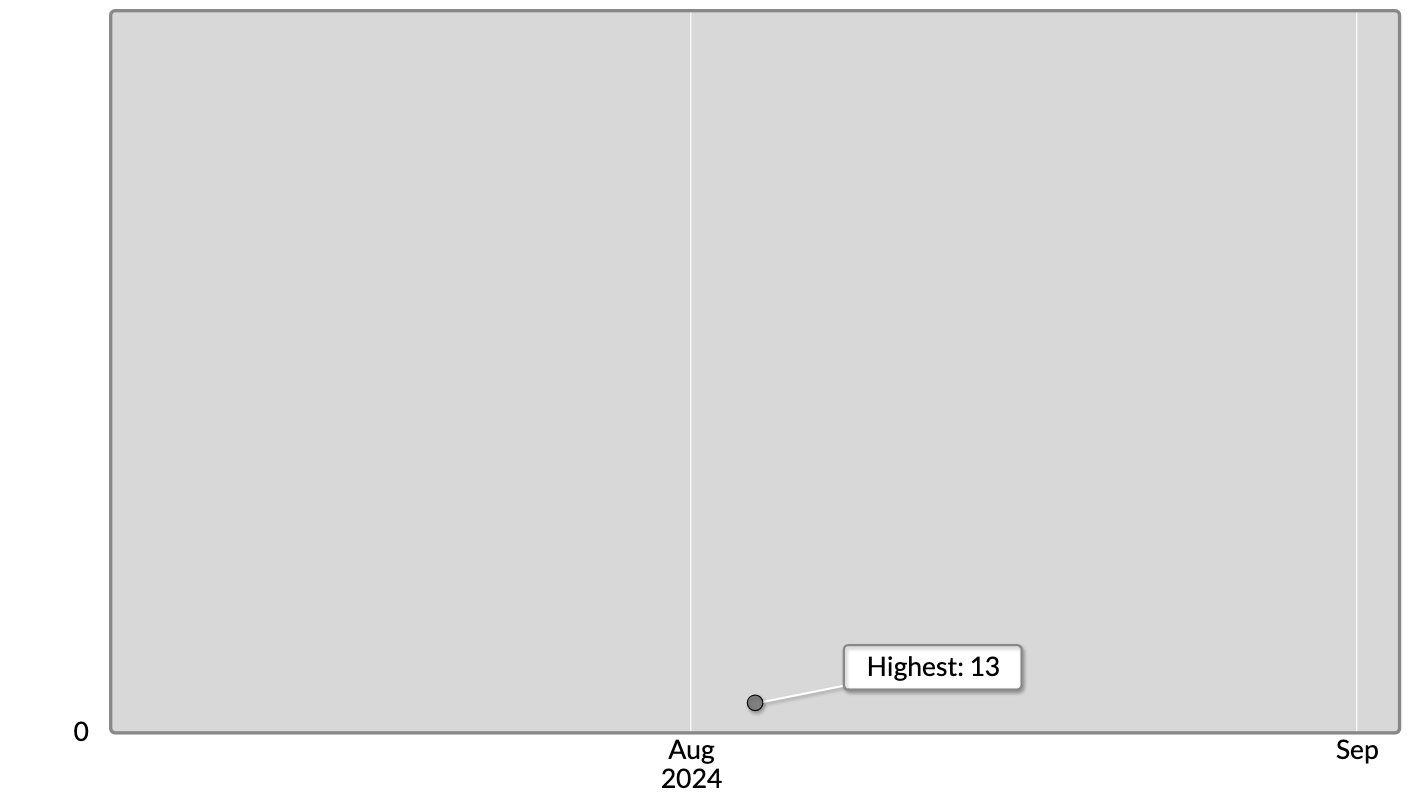
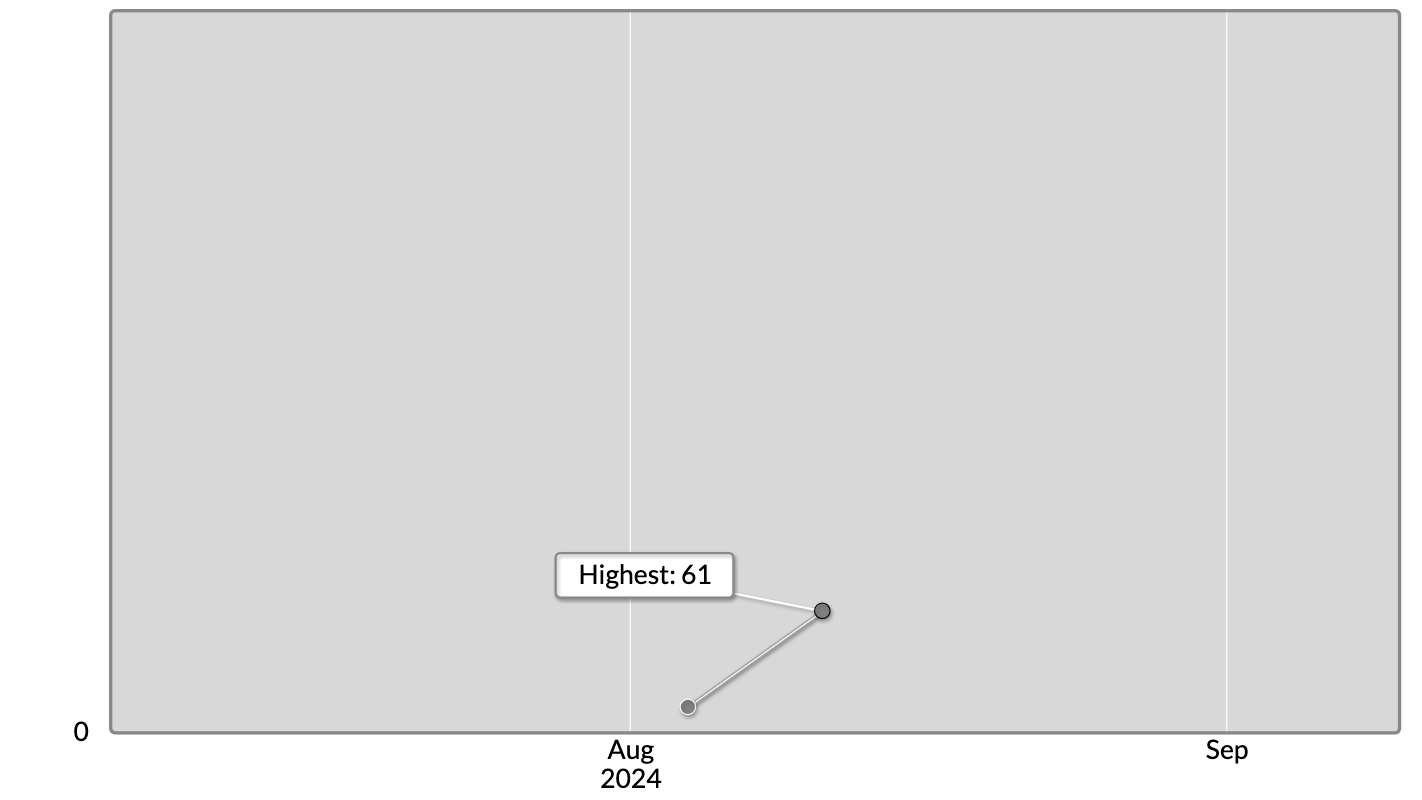
update from abc366 competition

diff --git a/README.md b/README.md
@@ -6,8 +6,8 @@ All solutions in C++
 
 ## Current Progress
 
-- Contests participated: 1
-- Rating: 13
+- Contests participated: 2
+- Rating: 61
 - Color: Grey
 
 ![Yuta's ranking progression graph](/ranking.png)
